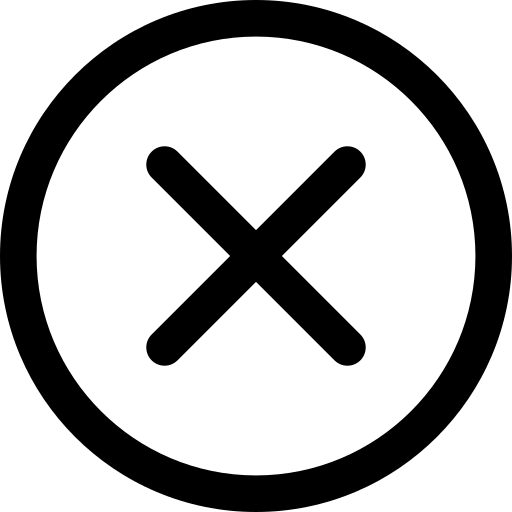
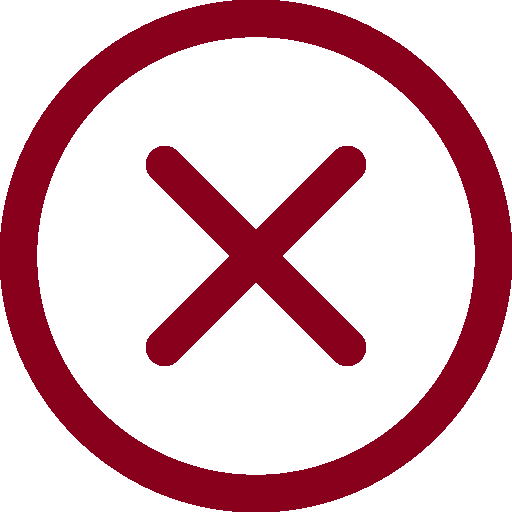
changed colors

Changed region(s): [[0.0, 0.0, 1.0, 1.0], [0.2812, 0.2812, 0.7188, 0.7188]]

diff --git a/src/assets/videos.js b/src/assets/videos.js
@@ -205,21 +205,38 @@ export const VideoInfo = ref([
         songBg: require("@/assets/images/Billy.png"),
         letra: `Who's the greatest warrior ever?
         A hero of renown!
+
         Who slayed an Evil Ocean? Who cast the Lich King down?
+
         Billy!
+
         And that time the evil Fire Count, captured a damsel fair
         Who saved her with such bravery?
         She offered him her hair
+
         Billy!
+
         Also, he fought a bear!
-        Billy!!!!!!!!!!!!!!!!!!!!!!!!!!!!!!!!!!!!!!!!`
+        Billy!!!!!!`
     },
     {
         nome: "Friends Don't Fight",
         descricao: "\"Friends Don't Fight\" is a song performed by BMO in the episode \"Video Makers.\" This song is sung in order for Finn and Jake to put aside their differences in movie choice and remember their friendship.",
         bg: "https://i.ytimg.com/vi/qFzIx6LQDDA/maxresdefault.jpg",
         id: "bBUF_AVKOUU",
-        songBg: require("@/assets/images/friends_song.png")
+        songBg: require("@/assets/images/friends_song.png"),
+        letra: `Finn, why are you fighting with your friend?
+        Jake, you know this can't be the end
+        Romance or action, does not matter
+        Hurting your friends will make you sadder
+        
+        Guys, you know you're much more than this
+        You two, please stop or you'll undo
+        All that you've been through
+        Ooooooooo...
+
+        Just hug and it's agreed:
+        Your love will not delete`
     },
     
 ])

diff --git a/src/components/video/VideoBox.vue b/src/components/video/VideoBox.vue
@@ -1,8 +1,8 @@
 <template>
-  <button type="button" class=" border-2 rounded border-purple-500" style="display: block;">
-    <div class="h-1/2 border-b-2 border-purple-500" :style="defineBg(bg)"></div>
+  <button type="button" class="border-2 rounded red-hover red-border" style="display: block;">
+    <div class="h-1/2 border-b-2 red-border" :style="defineBg(bg)"></div>
     <div
-      class="flex flex-col text-purple-500 items-start text-left h-1/2 px-1 justify-start overflow-auto"
+      class="flex flex-col items-start text-left h-1/2 px-1 justify-start overflow-auto red-border red-text"
     >
       <span id="nome" class="underline">{{ nome }}</span>
       <span id="descricao" class="overflow-hidden">{{ descricao }}</span>
@@ -25,7 +25,7 @@ export default {
       return { 
           "background-image": `url(${img})`, 
           "background-size": `cover`,
-          "background-position": `center`
+          "background-position": `center`,
           };
     },
 
@@ -35,6 +35,17 @@ export default {
 </script>
 
 <style>
+  .red-border{
+    border-color: #b0171f;
+  }
+  .red-hover:hover{
+    box-shadow: 0px 0px 31px 10px #B0171F;
+  }
+  .red-text{
+    color: #b8a01d;
+    font-size: 1.25em;
+    font-family: adventureFont;
+  }
   button{
     width: 10rem
   }

diff --git a/src/App.vue b/src/App.vue
@@ -4,12 +4,12 @@
       <div class="flex flex-col justify-between items-center h-1/4 w-full">
         <img src="@/assets/musicTime.png" style="width: 200px" />
         <!-- <search-bar class="mb-2" style="z-index: 1" /> -->
-        <div id="video" class="flex align-center justify-end w-full md:w-3/4 h-auto">
+        <div id="video" class="flex flex-col md:flex-row align-center justify-end w-full md:w-3/4 h-auto">
           <div class="flex align-center justify-end">
             <close-icon @click="closeVideo" v-if="idVideo"/>
-            <youtube-video class="video h-80 ml-0 md:ml-2"/>
+            <youtube-video class="h-80 ml-0 md:ml-2"/>
           </div>
-          <lyrics-card class="ml-2 h-auto lyrics-card"/>
+          <lyrics-card class="ml-2 h-auto"/>
         </div>
       </div>
       <video-grid id="videos-div" :class="idVideo == null ? 'h-3/4' : 'h-1/4'" />
@@ -54,6 +54,14 @@ export default {
 </script>
 
 <style>
+.color-border-yellow{
+  border: 3px solid #b8a01d;
+}
+
+.color-border-red{
+  border: 4px solid #b0171f;
+}
+
 #app {
   font-family: Avenir, Helvetica, Arial, sans-serif;
   -webkit-font-smoothing: antialiased;

diff --git a/src/components/video/VideoGrid.vue b/src/components/video/VideoGrid.vue
@@ -1,9 +1,9 @@
 <template>
   <div class="flex justify-around">
-    <div class="w-3/4 max-w-3/4 h-full flex py-3 px-6 justify-between overflow-auto flex-wrap" id="video-grid"
+    <div class="w-3/4 max-w-3/4 h-full flex py-3 px-6 justify-start overflow-auto flex-wrap" id="video-grid"
       style="background-color: rgba(0, 0, 0, 0.7)">
 
-      <video-box v-for="video in VideoInfo" :key="video.nome" class="w-full md:w-1/4 h-full mb-3" :bg="video.bg"
+      <video-box v-for="video in VideoInfo" :key="video.nome" class="w-full md:w-1/3 h-full mb-3" :bg="video.bg"
         :nome="video.nome" :descricao="video.descricao" @click="handleclick(video)" />
 
     </div>
@@ -35,7 +35,7 @@ export default {
 <style scoped>
 #video-grid {
   border-radius: 10px 10px 0 0;
-  box-shadow: 0 0 100px purple;
+  box-shadow: 0 0 100px #941017;
 }
 
 ::-webkit-scrollbar-thumb {

diff --git a/src/components/utils/lyrics/LyricsCard.vue b/src/components/utils/lyrics/LyricsCard.vue
@@ -1,5 +1,5 @@
 <template>
-    <div class="w-1/4 h-auto max-h-full flex pt-1 px-6 overflow-auto justify-center flex-wrap" 
+    <div class="w-1/3 h-auto max-h-full flex pt-1 px-6 overflow-auto justify-center flex-wrap color-border-yellow" 
         id="lyrics-card"
         :style="cardStyle">
         <div v-if="currentVideo">
@@ -39,7 +39,6 @@ export default {
     font-family: adventureFont;
 }
 #lyrics-card {
-    width: 30vw;
     border-radius: 10px;
     transition: all 0.5s ease;
 }

diff --git a/src/components/video/YoutubeVideo.vue b/src/components/video/YoutubeVideo.vue
@@ -1,5 +1,5 @@
 <template>
-  <div class="flex justify-around w-full">
+  <div class="flex justify-around w-full border-color-red">
     <iframe 
     id="video"
     width= "500"
